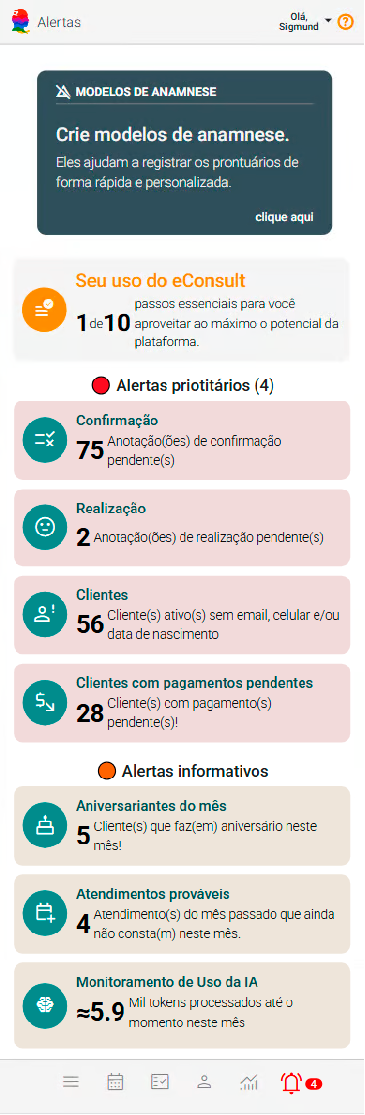
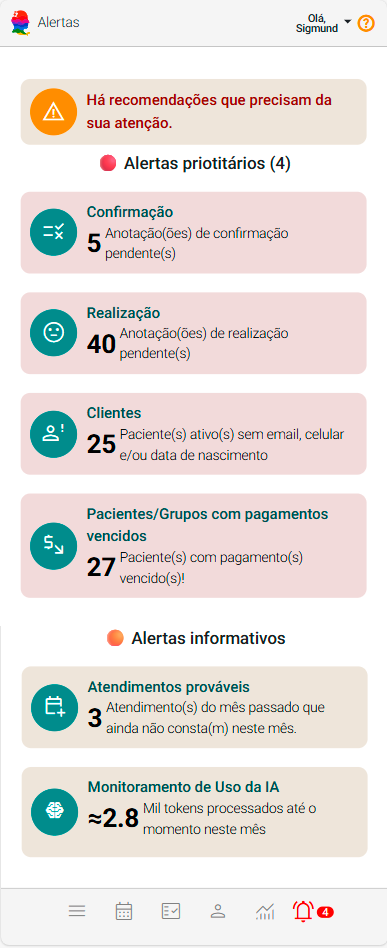
nilson

diff --git a/docs/08_funcionalidades/07-alertas/00-visao.md b/docs/08_funcionalidades/07-alertas/00-visao.md
@@ -21,69 +21,13 @@ O principal objetivo do painel Alertas é identificar e destacar situações que
 - **Eficiência Operacional:** O painel ajuda a manter o controle sobre as operações e a otimizar recursos ao focar nas áreas que realmente necessitam de intervenção.
 - **Análise e Melhoria Contínua:** Oferece dados para análise posterior, permitindo ajustes e melhorias contínuas nos processos e políticas da plataforma.
 
-## Recomendações e Exigências
+## Recomendações
 
-O eConsult pode exibir, no Painel Alertas, as chamadas "![Painel Alertas](../../../static/img/prints/alertas/002.png) Recomendações" ou "![Painel Alertas](../../../static/img/prints/alertas/002.png) Exigências", que sugerem ou exigem ações para otimizar ou dar andamento na sua experiência no eConsult.
-
-|Ícone|Descrição|
-|-|-|
-|![Painel Alertas](../../../static/img/prints/alertas/002.png)|**Recomendação:** Sugere uma ação que pode aprimorar sua experiência, embora não seja obrigatória.|
-|![Painel Alertas](../../../static/img/prints/alertas/003.png)|**Exigência:** É necessário que você tome uma ação para atender a essa exigência|
-
-### Recomendações e exigências possíveis
-
-<figure style={{ margin: 0, textAlign: "left", marginBottom: "20px" }}>
-  <img src="/img/prints/alertas/005.png" alt="Painel de Alertas" />
-  <figcaption style={{ fontStyle: "italic"}}>Exige a inclusão de Pacientes</figcaption>
-</figure>
-<figure style={{ margin: 0, textAlign: "left", marginBottom: "20px" }}>
-  <img src="/img/prints/alertas/006.png" alt="Painel de Alertas" />
-  <figcaption style={{ fontStyle: "italic"}}>Exige a inclusão de Agendamentos de Atendimentos</figcaption>
-</figure>
-<figure style={{ margin: 0, textAlign: "left", marginBottom: "20px" }}>
-  <img src="/img/prints/alertas/007.png" alt="Painel de Alertas" />
-  <figcaption style={{ fontStyle: "italic"}}>Exige o cadastramento do seu Endereço Principal</figcaption>
-</figure>
-<figure style={{ margin: 0, textAlign: "left", marginBottom: "20px" }}>
-  <img src="/img/prints/alertas/008.png" alt="Painel de Alertas" />
-  <figcaption style={{ fontStyle: "italic"}}>Recomenda a inclusão de uma Foto de Perfil</figcaption>
-</figure>
-<figure style={{ margin: 0, textAlign: "left", marginBottom: "20px" }}>
-  <img src="/img/prints/alertas/009.png" alt="Painel de Alertas" />
-  <figcaption style={{ fontStyle: "italic"}}>Exige a inclusão do seu Logotipo</figcaption>
-</figure>
-<figure style={{ margin: 0, textAlign: "left", marginBottom: "20px" }}>
-  <img src="/img/prints/alertas/010.png" alt="Painel de Alertas" />
-  <figcaption style={{ fontStyle: "italic"}}>Recomenda a configuração dos seus Marcadores Clínicos</figcaption>
-</figure>
-<figure style={{ margin: 0, textAlign: "left", marginBottom: "20px" }}>
-  <img src="/img/prints/alertas/011.png" alt="Painel de Alertas" />
-  <figcaption style={{ fontStyle: "italic"}}>Recomenda a inclusão de Grupos Etários</figcaption>
-</figure>
-<figure style={{ margin: 0, textAlign: "left", marginBottom: "20px" }}>
-  <img src="/img/prints/alertas/012.png" alt="Painel de Alertas" />
-  <figcaption style={{ fontStyle: "italic"}}>Exige a inclusão de pelo menos uma Forma de Pagamento</figcaption>
-</figure>
-<figure style={{ margin: 0, textAlign: "left", marginBottom: "20px" }}>
-  <img src="/img/prints/alertas/013.png" alt="Painel de Alertas" />
-  <figcaption style={{ fontStyle: "italic"}}>Exige a inclusão de pelo menos um Modelo de Anamnese</figcaption>
-</figure>
-
-:::note
-
-O próprio eConsult se encarrega de configurar automaticamente algumas dessas **recomendações/exigências** para facilitar sua jornada inicial. São eles:
-
-- **Recomendação — Grupos Etários:** O eConsult já vem com um cadastro completo de Grupos Etários.
-- **Exigência — Formas de Pagamento:** O eConsult cadastra previamente formas de pagamento.
-- **Exigência — Modelos de Anamnese:** O eConsult já oferece diversos modelos de anamnese pré-configurados de acordo com a sua especialidade, prontos para serem utilizados nos prontuários.
-
-:::
-
-Quando houver alguma **recomendação ou exigência pendente**, o **eConsult exibirá um alerta destacado no painel**, chamando sua atenção de forma clara e objetiva.
+Quando houver alguma **recomendação ou exigência de configuração pendente**, o **eConsult exibirá um *card* destacado no painel**, chamando sua atenção de forma clara e objetiva.
 
 ![Painel Alertas](../../../static/img/prints/alertas/014.png)
 
-Ao clicar neste alerta, você terá acesso a um **checklist detalhado**, que mostra exatamente o que precisa ser feito e permite acompanhar o andamento de cada item.
+Ao clicar neste *card*, você terá acesso a um **checklist** que mostra exatamente o que precisa ser feito e permite acompanhar o andamento de cada item.
 
 ![Painel Alertas](../../../static/img/prints/alertas/015.png)
 

diff --git a/docs/08_funcionalidades/00-conta/06_assistentes.md b/docs/08_funcionalidades/00-conta/06_assistentes.md
@@ -38,3 +38,57 @@ Um e-mail será enviado ao assistente, convidando-o a se juntar ao eConsult. Ao 
 :::note   
 Para alterar as permissões de um assintente basta acionar a opção ![Painel Conta](../../../static/img/prints/buttons/btn_card-edit.png) no *card* correspondente, escolher as opções desejadas e acionar o botão **Salvar** ![Painel Conta](../../../static/img/prints/buttons/btn_salvar.png).
 :::
+
+## Restrições de Acesso do Assintente
+
+No eConsult, cada perfil de usuário foi cuidadosamente estruturado para refletir responsabilidades reais dentro da prática psicológica e garantir a conformidade ética e legal prevista pelo CFP e pela LGPD. Por isso, o sistema diferencia de forma rigorosa as permissões de **psicólogos** e **assistentes**, preservando a segurança das informações e a autonomia profissional.
+
+### Atribuições do Psicólogo
+
+O psicólogo é o responsável técnico pelo atendimento e, portanto, possui acesso completo às funcionalidades clínicas e de gestão, incluindo por exemplo:
+
+- Consulta, edição e registro de dados clínicos no prontuário.
+
+- Criação e edição de anotações clínicas (incluindo uso de IA).
+
+- Emissão de documentos clínicos oficiais (declarações, atestados, relatórios, TCI, etc.).
+
+- Visualização e gerenciamento de arquivos clínicos do paciente.
+
+- Realização de atendimentos presenciais e online (teleconsulta).
+
+- Acesso integral ao histórico clínico, indicadores, marcadores e evoluções.
+
+Essas ações **são exclusivas do psicólogo**, pois envolvem atos privativos da profissão e exigem responsabilidade técnica.
+
+### Atribuições do Assistente
+
+O assistente possui um papel administrativo dentro da clínica e, por isso, seu acesso é limitado a atividades de apoio à gestão, como:
+
+- Agendamento e reagendamento de atendimentos.
+
+- Atualização de dados cadastrais do paciente (informações não clínicas).
+
+- Gestão de pendências administrativas, pagamentos e status de presença.
+
+- Consulta a relatórios gerenciais.
+
+- Comunicação administrativa com os pacientes.
+
+Essas permissões (dadas pelo psicólogo) permitem que o assistente exerça suas funções operacionais sem acessar conteúdos clínicos, mantendo a privacidade e o rigor ético que o trabalho psicológico exige.
+
+### O que o Assistente não pode fazer e não tem acesso
+
+Para preservar a confidencialidade dos dados clínicos e garantir que apenas profissionais habilitados executem atos psicológicos, o assistente não pode, em nenhuma circunstância:
+
+- Acessar prontuários ou visualizar informações clínicas do paciente.
+
+- Registrar, editar ou excluir anotações clínicas.
+
+- Emitir documentos clínicos de qualquer natureza.
+
+- Realizar ou iniciar atendimentos (presenciais ou online).
+
+- Acessar indicadores clínicos, marcadores, escalas ou qualquer item de natureza técnica.
+
+Essas restrições são aplicadas automaticamente pelo eConsult e fazem parte do compromisso do sistema em promover segurança, ética profissional e conformidade normativa.
